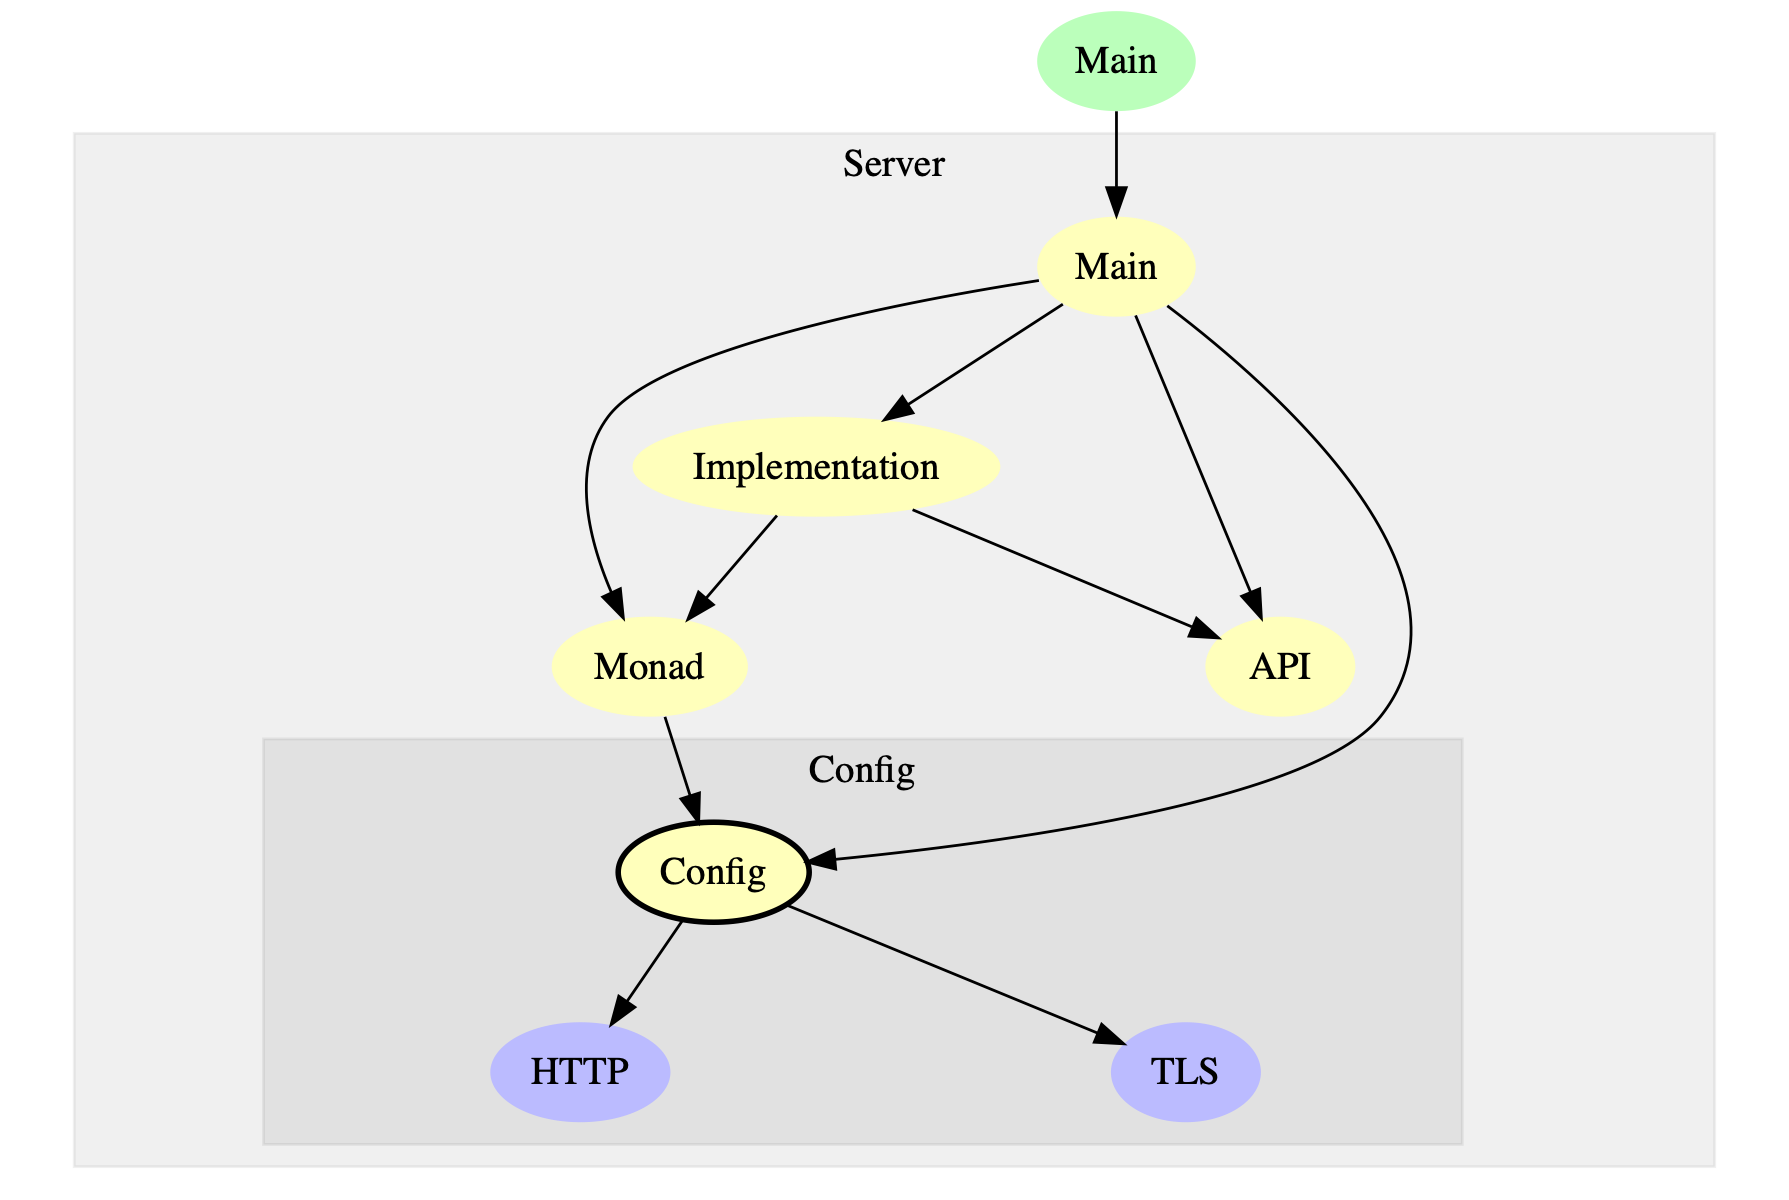
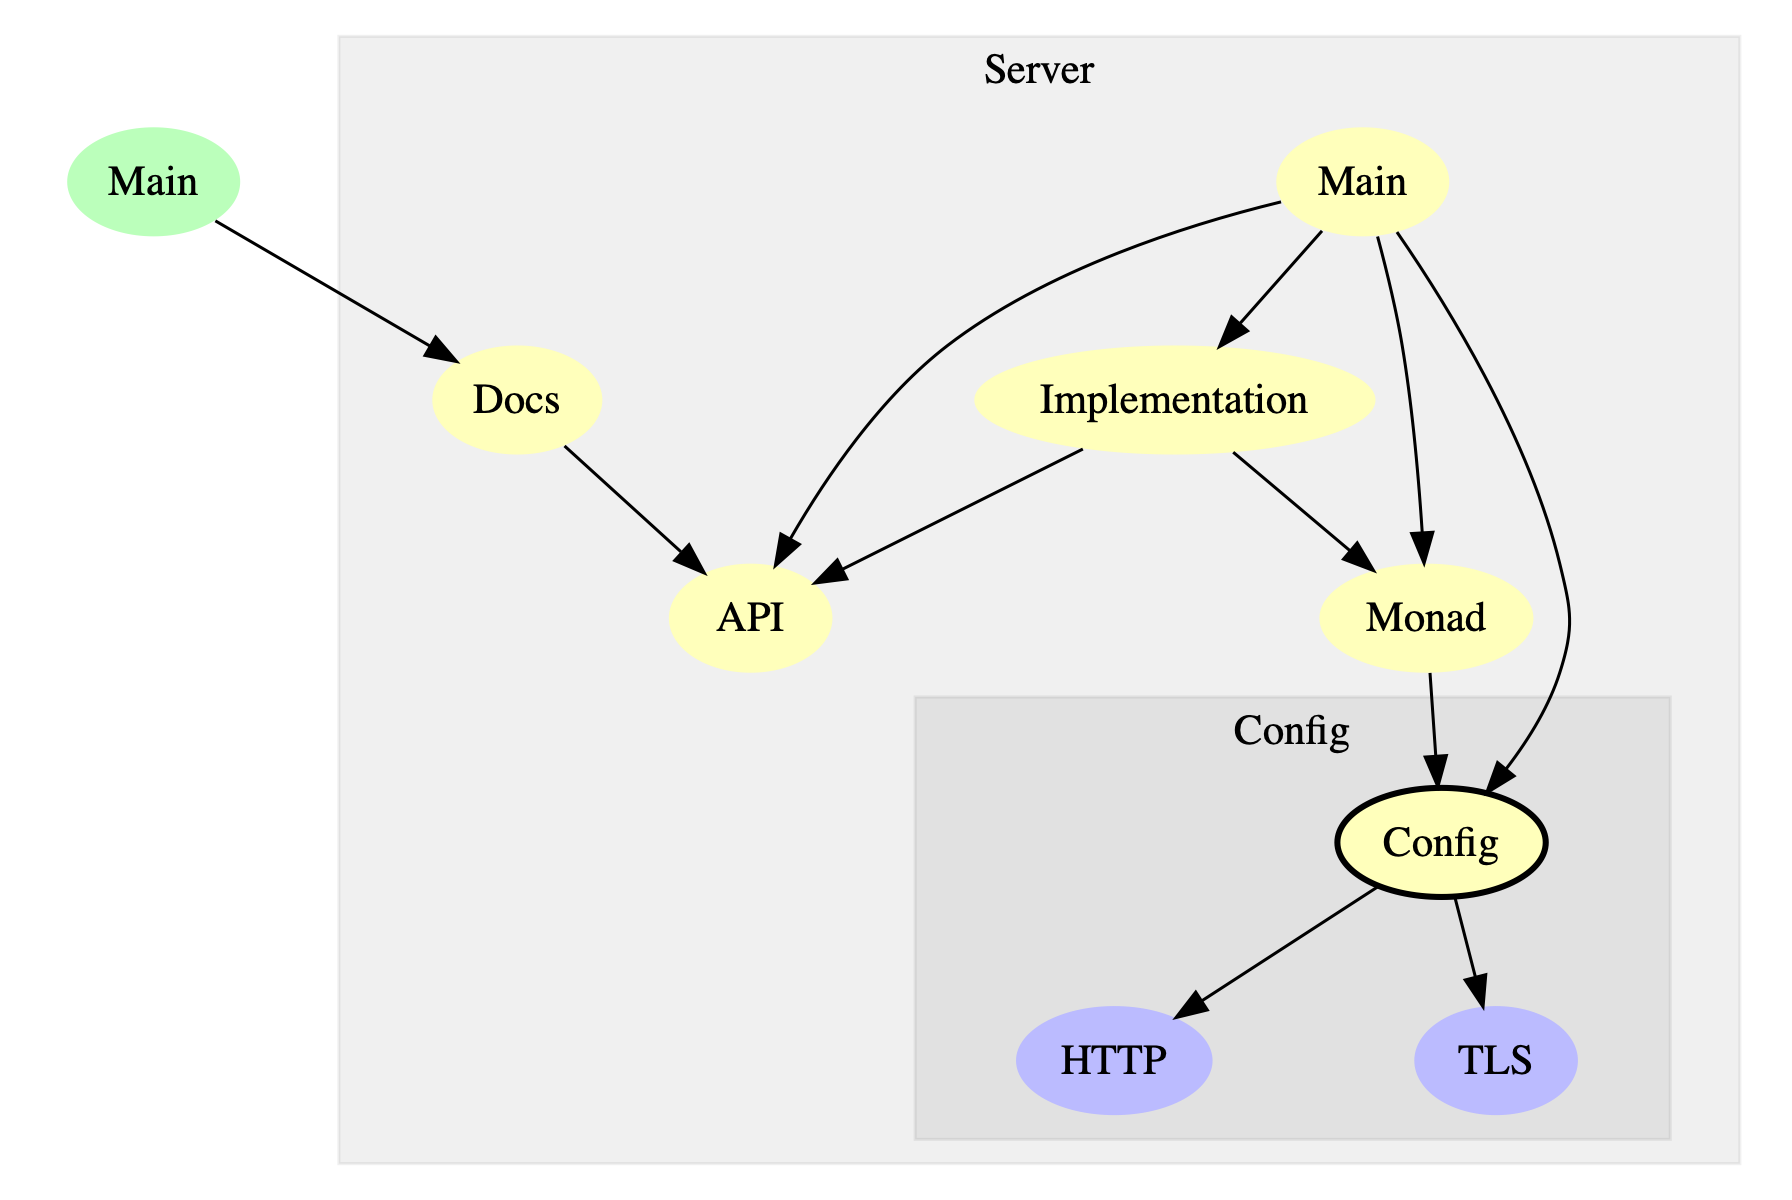
Added servant documentation generation

diff --git a/README.md b/README.md
@@ -6,3 +6,38 @@ https://github.com/SamuelSchlesinger/haskell-server-template/blob/dev/modules.pn
 # Code Structure
 
 ![Module Structure](https://github.com/SamuelSchlesinger/haskell-server-template/blob/main/modules.png)
+Up to date
+
+# Generated API Documentation
+
+## GET /health
+
+### Check the health of the server. The server will reply with a 204 status code if it is live. This form of health means that we should not restart this service, though it may not be available for all functionality.
+
+
+### Check the health of the server.
+
+
+### Response:
+
+- Status code 204
+- Headers: []
+
+- No response body
+
+## GET /ready
+
+### Check the readiness of the server. The server will reply with a 204 status code if it is ready to receive traffic.
+
+
+### Check the readiness of the server.
+
+
+### Response:
+
+- Status code 204
+- Headers: []
+
+- No response body
+
+
